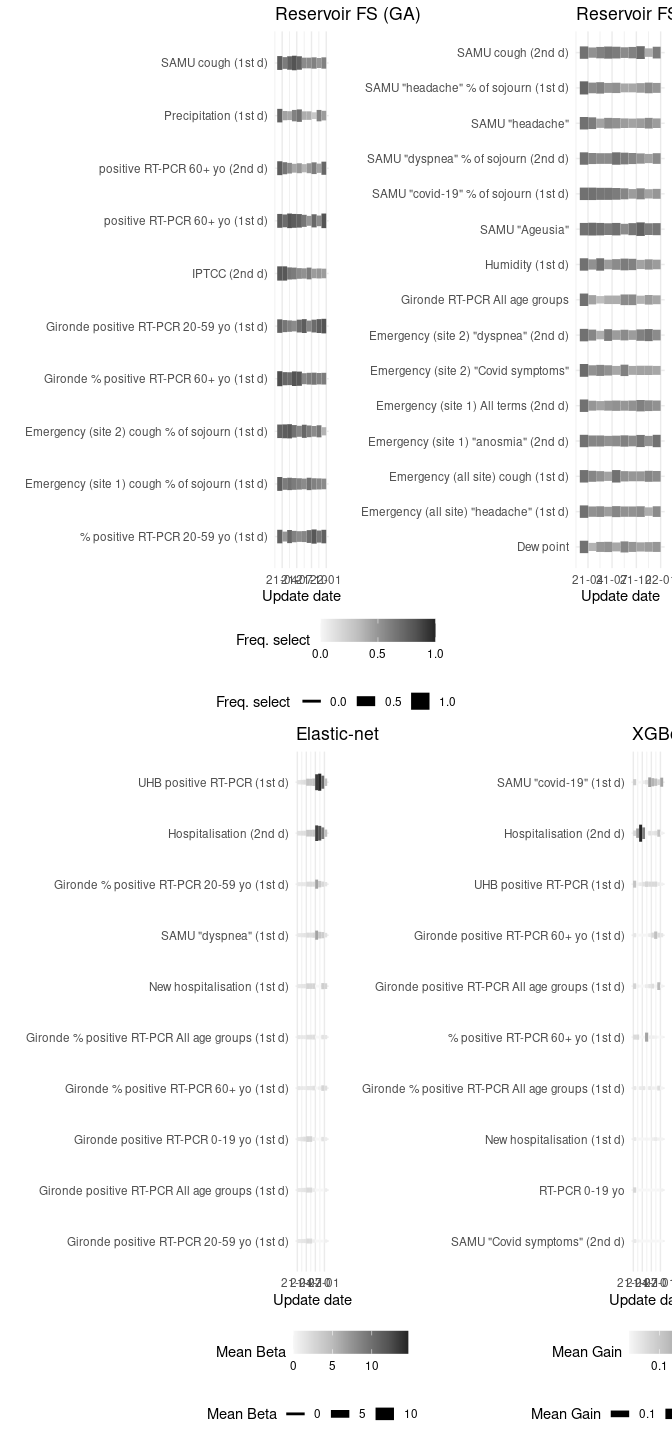
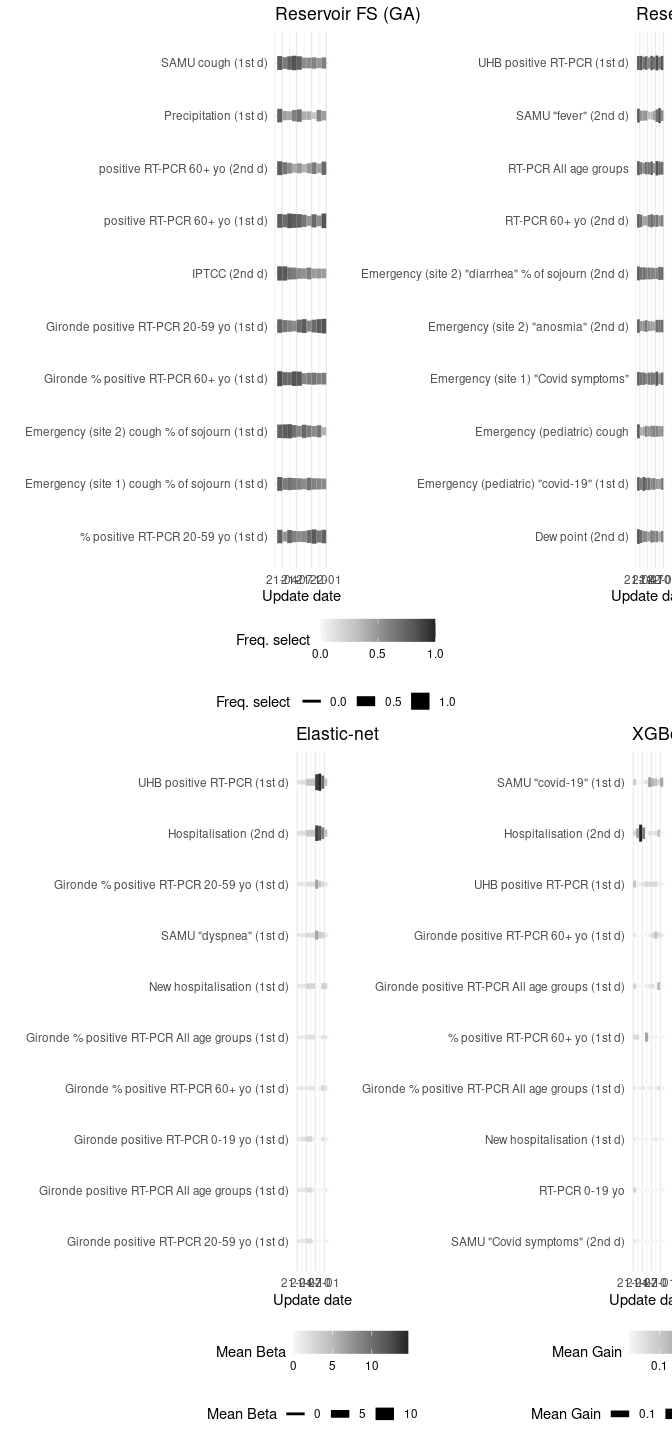
update results

Changed region(s): [[0.5625, 0.0, 1.0, 0.4375], [0.625, 0.125, 0.6562, 0.1562]]

diff --git a/script/results_high_dim_rc.md b/script/results_high_dim_rc.md
@@ -77,52 +77,52 @@ The total number of features is 409.
    <td style="text-align:right;"> 1.11 </td>
   </tr>
   <tr>
-   <td style="text-align:left;"> Reservoir FS (GA - 10 esn) </td>
+   <td style="text-align:left;"> Reservoir FS (GA - 20 esn) </td>
    <td style="text-align:left;"> No </td>
-   <td style="text-align:right;"> 15.46 </td>
-   <td style="text-align:right;"> 12.31 </td>
-   <td style="text-align:right;"> -3.13 </td>
-   <td style="text-align:right;"> 9.06 </td>
-   <td style="text-align:right;"> 0.29 </td>
+   <td style="text-align:right;"> 14.84 </td>
+   <td style="text-align:right;"> 12.53 </td>
+   <td style="text-align:right;"> -3.75 </td>
+   <td style="text-align:right;"> 9.60 </td>
+   <td style="text-align:right;"> 0.25 </td>
    <td style="text-align:right;"> 0.32 </td>
-   <td style="text-align:right;"> 0.82 </td>
-   <td style="text-align:right;"> 1.85 </td>
+   <td style="text-align:right;"> 0.81 </td>
+   <td style="text-align:right;"> 1.74 </td>
   </tr>
   <tr>
-   <td style="text-align:left;"> Reservoir FS (GA - 10 esn) </td>
+   <td style="text-align:left;"> Reservoir FS (GA - 20 esn) </td>
    <td style="text-align:left;"> Yes </td>
-   <td style="text-align:right;"> 15.48 </td>
-   <td style="text-align:right;"> 12.61 </td>
-   <td style="text-align:right;"> -3.11 </td>
-   <td style="text-align:right;"> 9.11 </td>
-   <td style="text-align:right;"> 0.28 </td>
-   <td style="text-align:right;"> 0.31 </td>
-   <td style="text-align:right;"> 0.84 </td>
-   <td style="text-align:right;"> 1.93 </td>
+   <td style="text-align:right;"> 14.70 </td>
+   <td style="text-align:right;"> 12.22 </td>
+   <td style="text-align:right;"> -3.88 </td>
+   <td style="text-align:right;"> 9.66 </td>
+   <td style="text-align:right;"> 0.27 </td>
+   <td style="text-align:right;"> 0.30 </td>
+   <td style="text-align:right;"> 0.81 </td>
+   <td style="text-align:right;"> 1.85 </td>
   </tr>
   <tr>
    <td style="text-align:left;"> Reservoir FS 7 days (GA) </td>
    <td style="text-align:left;"> No </td>
-   <td style="text-align:right;"> 8.94 </td>
-   <td style="text-align:right;"> 7.82 </td>
-   <td style="text-align:right;"> -2.07 </td>
-   <td style="text-align:right;"> 5.22 </td>
-   <td style="text-align:right;"> 0.15 </td>
-   <td style="text-align:right;"> 0.20 </td>
-   <td style="text-align:right;"> 0.83 </td>
-   <td style="text-align:right;"> 3.54 </td>
+   <td style="text-align:right;"> 8.59 </td>
+   <td style="text-align:right;"> 7.42 </td>
+   <td style="text-align:right;"> -2.42 </td>
+   <td style="text-align:right;"> 5.87 </td>
+   <td style="text-align:right;"> 0.16 </td>
+   <td style="text-align:right;"> 0.19 </td>
+   <td style="text-align:right;"> 0.80 </td>
+   <td style="text-align:right;"> 4.82 </td>
   </tr>
   <tr>
    <td style="text-align:left;"> Reservoir FS 21 days (GA) </td>
    <td style="text-align:left;"> No </td>
-   <td style="text-align:right;"> 25.48 </td>
-   <td style="text-align:right;"> 16.22 </td>
-   <td style="text-align:right;"> 0.14 </td>
-   <td style="text-align:right;"> 2.21 </td>
+   <td style="text-align:right;"> 25.46 </td>
+   <td style="text-align:right;"> 16.20 </td>
+   <td style="text-align:right;"> 0.12 </td>
+   <td style="text-align:right;"> 2.32 </td>
    <td style="text-align:right;"> 0.52 </td>
    <td style="text-align:right;"> 0.50 </td>
    <td style="text-align:right;"> 1.00 </td>
-   <td style="text-align:right;"> 2.62 </td>
+   <td style="text-align:right;"> 2.93 </td>
   </tr>
   <tr>
    <td style="text-align:left;"> Reservoir FS (GA) all anteriority </td>
@@ -293,18 +293,6 @@ The total number of features is 409.
    <td style="text-align:right;"> 3.32 </td>
   </tr>
   <tr>
-   <td style="text-align:left;"> LSTM-PCA </td>
-   <td style="text-align:left;"> Yes </td>
-   <td style="text-align:right;"> 15.74 </td>
-   <td style="text-align:right;"> 13.98 </td>
-   <td style="text-align:right;"> -2.84 </td>
-   <td style="text-align:right;"> 11.80 </td>
-   <td style="text-align:right;"> 0.24 </td>
-   <td style="text-align:right;"> 0.50 </td>
-   <td style="text-align:right;"> 0.76 </td>
-   <td style="text-align:right;"> 3.32 </td>
-  </tr>
-  <tr>
    <td style="text-align:left;"> LSTM-RC-GA </td>
    <td style="text-align:left;"> No </td>
    <td style="text-align:right;"> 15.08 </td>
@@ -317,32 +305,20 @@ The total number of features is 409.
    <td style="text-align:right;"> 1.76 </td>
   </tr>
   <tr>
-   <td style="text-align:left;"> LSTM-RC-GA </td>
-   <td style="text-align:left;"> Yes </td>
-   <td style="text-align:right;"> 15.08 </td>
-   <td style="text-align:right;"> 12.71 </td>
-   <td style="text-align:right;"> -3.51 </td>
-   <td style="text-align:right;"> 9.30 </td>
-   <td style="text-align:right;"> 0.23 </td>
-   <td style="text-align:right;"> 0.48 </td>
-   <td style="text-align:right;"> 0.80 </td>
-   <td style="text-align:right;"> 1.76 </td>
+   <td style="text-align:left;"> LSTM-PCA-20 </td>
+   <td style="text-align:left;"> No </td>
+   <td style="text-align:right;"> 16.23 </td>
+   <td style="text-align:right;"> 14.37 </td>
+   <td style="text-align:right;"> -2.35 </td>
+   <td style="text-align:right;"> 12.38 </td>
+   <td style="text-align:right;"> 0.25 </td>
+   <td style="text-align:right;"> 0.52 </td>
+   <td style="text-align:right;"> 0.74 </td>
+   <td style="text-align:right;"> 3.30 </td>
   </tr>
   <tr>
    <td style="text-align:left;"> Transformers-PCA </td>
    <td style="text-align:left;"> No </td>
-   <td style="text-align:right;"> 19.28 </td>
-   <td style="text-align:right;"> 16.80 </td>
-   <td style="text-align:right;"> 0.69 </td>
-   <td style="text-align:right;"> 11.64 </td>
-   <td style="text-align:right;"> 0.32 </td>
-   <td style="text-align:right;"> 0.51 </td>
-   <td style="text-align:right;"> 1.00 </td>
-   <td style="text-align:right;"> 2.79 </td>
-  </tr>
-  <tr>
-   <td style="text-align:left;"> Transformers-PCA </td>
-   <td style="text-align:left;"> Yes </td>
    <td style="text-align:right;"> 19.28 </td>
    <td style="text-align:right;"> 16.80 </td>
    <td style="text-align:right;"> 0.69 </td>
@@ -365,16 +341,40 @@ The total number of features is 409.
    <td style="text-align:right;"> 4.02 </td>
   </tr>
   <tr>
-   <td style="text-align:left;"> Transformers-RC-GA </td>
-   <td style="text-align:left;"> Yes </td>
-   <td style="text-align:right;"> 18.12 </td>
-   <td style="text-align:right;"> 15.43 </td>
-   <td style="text-align:right;"> -0.47 </td>
-   <td style="text-align:right;"> 9.33 </td>
+   <td style="text-align:left;"> prophet </td>
+   <td style="text-align:left;"> No </td>
+   <td style="text-align:right;"> 21.30 </td>
+   <td style="text-align:right;"> 16.33 </td>
+   <td style="text-align:right;"> 2.71 </td>
+   <td style="text-align:right;"> 8.07 </td>
+   <td style="text-align:right;"> 0.39 </td>
+   <td style="text-align:right;"> 0.35 </td>
+   <td style="text-align:right;"> 1.05 </td>
+   <td style="text-align:right;"> 3.15 </td>
+  </tr>
+  <tr>
+   <td style="text-align:left;"> informer </td>
+   <td style="text-align:left;"> No </td>
+   <td style="text-align:right;"> 18.70 </td>
+   <td style="text-align:right;"> 14.11 </td>
+   <td style="text-align:right;"> 0.12 </td>
+   <td style="text-align:right;"> 4.25 </td>
+   <td style="text-align:right;"> 0.34 </td>
+   <td style="text-align:right;"> 0.38 </td>
+   <td style="text-align:right;"> 1.00 </td>
+   <td style="text-align:right;"> 1.69 </td>
+  </tr>
+  <tr>
+   <td style="text-align:left;"> patchtst </td>
+   <td style="text-align:left;"> No </td>
+   <td style="text-align:right;"> 18.34 </td>
+   <td style="text-align:right;"> 18.14 </td>
+   <td style="text-align:right;"> -0.25 </td>
+   <td style="text-align:right;"> 13.95 </td>
    <td style="text-align:right;"> 0.31 </td>
-   <td style="text-align:right;"> 0.44 </td>
-   <td style="text-align:right;"> 0.97 </td>
-   <td style="text-align:right;"> 4.02 </td>
+   <td style="text-align:right;"> 0.55 </td>
+   <td style="text-align:right;"> 1.00 </td>
+   <td style="text-align:right;"> 3.34 </td>
   </tr>
 </tbody>
 </table>
@@ -402,12 +402,18 @@ hyperparameters](results_high_dim_rc_files/figure-commonmark/numeric-hp-1.png)
 ![Numeric hyperparameters of
 RC-GA](results_high_dim_rc_files/figure-commonmark/numeric-hp-rc-ga-1.png)
 
+![Numeric hyperparameters of RC-GA with 20
+reservoirs](results_high_dim_rc_files/figure-commonmark/numeric-hp-rc-ga-20-1.png)
+
 ## Categorical hyperparameters
 
     [[1]]
     NULL
 
     [[2]]
+    NULL
+
+    [[3]]
     NULL
 
     [[1]]
@@ -422,8 +428,20 @@ RC-GA](results_high_dim_rc_files/figure-commonmark/feature-selection-rc-ga-1.png
 ![Feature
 selection](results_high_dim_rc_files/figure-commonmark/feature-selection-all-1.png)
 
+    $`1`
+
 ![Feature
 selection](results_high_dim_rc_files/figure-commonmark/feature-selection-all-2.png)
+
+
+    $`2`
+
+![Feature
+selection](results_high_dim_rc_files/figure-commonmark/feature-selection-all-3.png)
+
+
+    attr(,"class")
+    [1] "list"      "ggarrange"
 
 ## Ridge update of 2000 units reservoir
 
